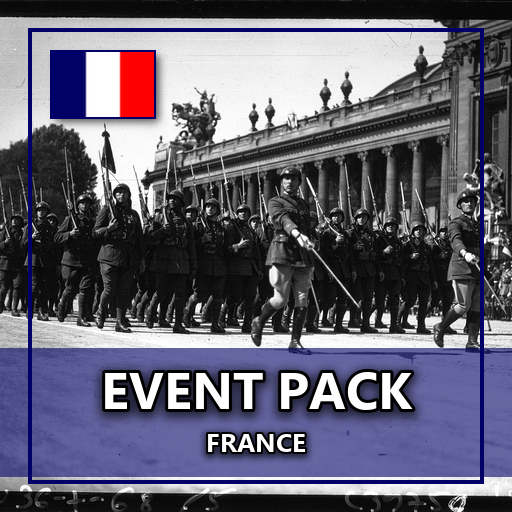
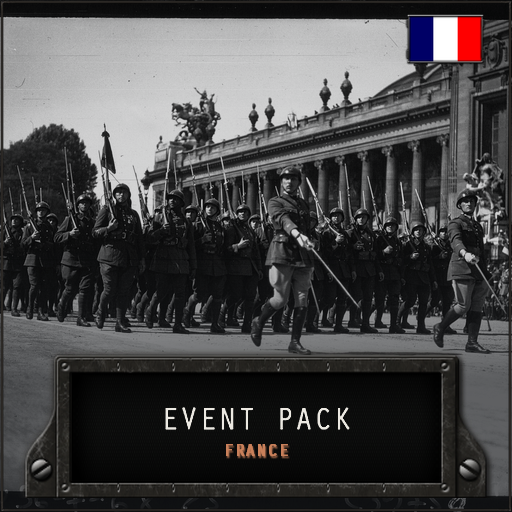
feat(thumbnail): render pack thumbnails with the Manager's New-HoiThumbnail.ps1
The pack thumbnails were made with the external generator and copied in
from scratch/thumbnail, with the text position, flag corner and colours
chosen per pack. They now come from the Manager's one template: EVENT
PACK in the game's loading-screen plate with the country under it, the
flag at the top right, over the pack's own Commons picture.

- assets/thumbnail.json names each pack's background picture and crop;
  the plan template's thumbnail step sets it, previews and -Applies.
- -NewPack renders the new pack's thumbnail through the Manager and falls
  back to assets/thumbnail_master.png when the Manager is not found.
- The hook no longer exempts a copy into packs/<key>/thumbnail.png and
  refuses a hand edit of it; the allow list names New-HoiThumbnail.ps1.
- The create, implement and audit skills, the implementer and reviewer
  agents, AGENTS.md and README describe the new step.
- Both packs' thumbnails are re-rendered.

Tests: tests\Run-Tests.ps1 -Changed: 171 Passed, 0 Failed, 0 Skipped
(changed: all suites); Invoke-ModAction.ps1 -Action Validate succeeded.

diff --git a/.agents/skills/event-pack-create/SKILL.md b/.agents/skills/event-pack-create/SKILL.md
@@ -15,13 +15,13 @@ Plans a pack or new events, down to every text, effect and picture, in one plan 
 - **Every fact is verified on its page.** A fact enters the fact sheet only from a Phase 3a `KEEP` or `FIX`, with its source and its quote; a detail no checked page states does not enter a text, however plausible.
 - **The licence is the tool's decision.** A picture enters the plan only after `build.ps1 -FetchPicture ... -DryRun` printed `ACCEPTED` for it.
 - **The editor passes every text.** No plan goes READY with an event the editor has not returned KEEP for in its latest round.
-- **The shipped pack is not touched here.** This skill writes the plan, the dossier under `research/<key>/` and files under `scratch/`; `source/` and `packs/` change when the plan is implemented. The one exception is `-NewPack` for a brand-new pack (Phase 0); its thumbnail is made at implementation (Phase 3).
+- **The shipped pack is not touched here.** This skill writes the plan, the dossier under `research/<key>/` and files under `scratch/`; `source/` and `packs/` change when the plan is implemented. The one exception is `-NewPack` for a brand-new pack (Phase 0); the pack's own thumbnail is made at implementation (Phase 3, step 5).
 - **Dossiers are kept.** Every dossier stays in `research/<key>/`, never deleted or trimmed, also when the plan is dropped: the candidates not chosen and the facts not used are where the next expansion of the pack starts. The only additions are the `Used:` and `Checked:` lines of Phase 5.4. It is committed with the plan when the plan ships, or on the owner's word.
 - Ask the owner only the questions in Phase 0 and Phase 2.
 
 ## Phase 0: scope
 1. Ask the owner, in one message: the country (and its tag if not obvious), the period (default: 1936 to the start of its war, plus its first months), the number of events (default 10 to 15), kinds to stress or avoid, and anything the pack must not touch. Record the answers in the plan's "Decisions".
-2. A new pack: confirm the tag with the `hoi4-vanilla-lookup` skill (`Get-HoiCountry`), then `powershell -File .\build.ps1 -NewPack -Pack <key> -Tag <TAG> -DisplayName "<Country>"`; it gives the pack the placeholder thumbnail, which Phase 3 replaces. Write `source/<key>/workshop-intro.bbcode`: two or three plain sentences about the pack, and the info lines `-NewPack` drafted.
+2. A new pack: confirm the tag with the `hoi4-vanilla-lookup` skill (`Get-HoiCountry`), then `powershell -File .\build.ps1 -NewPack -Pack <key> -Tag <TAG> -DisplayName "<Country>"`; it renders a first thumbnail over the family's default loading screen with the Modding Manager's `New-HoiThumbnail.ps1` (or copies `assets/thumbnail_master.png` and prints the command when that cannot run), which Phase 3 replaces. Write `source/<key>/workshop-intro.bbcode`: two or three plain sentences about the pack, and the info lines `-NewPack` drafted.
 3. Copy `docs/plans/TEMPLATE-pack.md` to `docs/plans/<YYYY-MM-DD>-<key>-<what>.md` and fill the header, "Context" and "Decisions". An existing pack: note its last event id; new ids continue from it.
 
 ## Phase 1: research
@@ -36,7 +36,7 @@ Read the new dossiers. Drop candidates whose key facts are `UNVERIFIED`, that ca
 2. For each event, run `powershell -File .\build.ps1 -FetchPicture -Pack <key> -File "<File:...>" -Key <picture key> -DryRun` on its first proposal; on `REJECTED`, try the next. An event with no accepted file gets a vanilla picture (`vanilla:GFX_report_event_<name>`, found with `Find-HoiUsage` of the `hoi4-vanilla-lookup` skill) and a note in the plan.
 3. Choose crop and tone per picture: `warm` for black-and-white photographs (it matches the game's own pictures), `none` for colour art; a crop other than 50 only where the researcher's crop note asks for it.
 4. Fill the plan's "Pictures" table with what the dry runs printed.
-5. Thumbnail, for a new pack or one whose `packs/<key>/thumbnail.png` still has the hash of `assets/thumbnail_master.png` (`Get-FileHash`): the background is one of the pack's own event pictures, not a vanilla loading screen. Pick a picture that printed `ACCEPTED`, PD or CC0 preferred; CC BY also does, as the generated Workshop description credits every picture an event uses. Look at the picture and name where its subject sits. A landscape picture fills the square's whole height, so the crop (`center`, `left`, `right`) only moves it sideways; a portrait picture fills its width, and `top` or `bottom` keeps the subject in. The text block (title, country, and the flag with the banner behind them) covers the top or bottom 45% of the square with the flag under the text (`--overlay-pos below-text`), or 25% with the flag in a corner (`--overlay-pos top-left` and the other corners). Put it over the picture's emptiest band, such as sky, ground or water, and never over the subject: `--text-pos top` or `bottom`. When no band is that tall, put the flag in a corner over another empty area. Prefer a picture with such a band. Write its key on the plan's "Thumbnail" line with the subject's place, the text position and the flag position, and fill step 4 of "Implementation steps": picture key, country in capitals, crop, text and flag positions, and the pack's two colours. The flag: the tag, the game root `Get-HoiGameInfo` prints, and as flag variant the ruling party ideology `Get-HoiCountryHistory -Tag <TAG> -Section politics` prints. Check the flag while planning with the same generator command and `--out-dirs "scratch\thumbnail\<key>"` but no `--bg-image`: when it stops with `No flag for '<TAG>'`, pick the variant from the list it prints. The colours come from that flag as the game draws it, never a preset theme, so every pack wears its own nation's colours: list the file's commonest colours with `python -I -c "from PIL import Image; from collections import Counter; print(['#%02X%02X%02X' % c for c, n in Counter(Image.open(r'<the overlay_source the check printed>').convert('RGB').getdata()).most_common(6)])"`. The main colour is the one the flag is known by, never white (Finland: its blue `#003580`); it frames the picture and fills the banner behind the text. The text colour is `#FFFFFF`, or `#000000` when the main colour is light (a yellow, a pale blue). A dry run downloads nothing, so the thumbnail is made at implementation, after step 3, from the copy `-FetchPicture` saves in `sources-cache/<key>/` (the Commons rendering, up to 1600 px wide), never from the 210x176 DDS. A pack that already has its own thumbnail: write `Thumbnail: unchanged` and make step 4 read `Thumbnail unchanged: nothing to run.`, so the step numbers stay.
+5. Thumbnail, for a new pack or one without a `packs.<key>.background` in `assets/thumbnail.json`: the background is one of the pack's own event pictures, not a vanilla loading screen. The Modding Manager's `New-HoiThumbnail.ps1` draws the rest in the one fixed Event Pack layout (the game's border, "EVENT PACK" and the country on the title plate at the bottom, the flag of the pack's tag at the top right), so the picture and its crop are the only choices. Pick a picture that printed `ACCEPTED`, PD or CC0 preferred; CC BY also does, as the generated Workshop description credits every picture an event uses. Look at the picture and name where its subject sits: the plate covers about the bottom third of the square and the flag its top right corner, so prefer a picture whose subject can sit in the upper middle. A landscape picture fills the square's whole height, so the crop (`"center"`, `"left"`, `"right"`) only moves it sideways; a portrait picture fills its width, and `"top"` or `"bottom"` keeps the subject in; `[x, y]` centring fractions place it in between. Write `Thumbnail: <picture key>, crop <crop>` and fill step 4 of "Implementation steps" with the picture key, the crop as JSON, and the Modding Manager's absolute path as `<Manager root>` (the folder two levels above this repository). Its commands take `-Path .`, so the Phase 5 rehearsal renders into and writes only its copy. A dry run downloads nothing, so the thumbnail is made at implementation, after step 3, from the copy `-FetchPicture` saves in `sources-cache/<key>/` (the Commons rendering, up to 1600 px wide), never from the 210x176 DDS. A pack that already has its own thumbnail: write `Thumbnail: unchanged` and make step 4 read `Thumbnail unchanged: nothing to run.`, so the step numbers stay.
 
 ## Phase 3a: verify
 Runs after the owner's choice, at the same time as Phase 3 if you like; a researcher's quote is a lead, not yet a check.
@@ -53,7 +53,7 @@ Runs after the owner's choice, at the same time as Phase 3 if you like; a resear
 3. Dispatch `ep-editor` with the plan path (its `markdown fact-sheets` block is the fact sheet) and the event keys. Apply every REWRITE as given; drop or replace a REJECT (back to Phase 2 for a replacement). Record each round in "Editor record". Send the changed events back to the editor until every event is KEEP; at most three rounds, then ask the owner.
 
 ## Phase 5: gate
-1. Rehearse the plan without touching the repository: `robocopy . scratch\rehearsal /MIR /XD .git scratch artifacts sources-cache`, then in `scratch\rehearsal` run steps 1 to 8 of the plan exactly as written (they write only the copy). Every step must give what it says to expect; fix the plan, not the copy, and rehearse again. Step 8 draws each event as the game's window (`scratch\rehearsal\artifacts\workshop-images\<key>\`): open the images with the Read tool, and shorten a title or option the render prints a `[WARN]` for: it overflows its box into the text below [GUW-027].
+1. Rehearse the plan without touching the repository: `robocopy . scratch\rehearsal /MIR /XD .git scratch artifacts sources-cache`, then in `scratch\rehearsal` run steps 1 to 8 of the plan exactly as written (they write only the copy). Every step must give what it says to expect; fix the plan, not the copy, and rehearse again. Step 4 edits the copy's `assets\thumbnail.json`; open the preview it names with the Read tool, and pick another picture or crop when the title plate or the flag covers the subject. Step 8 draws each event as the game's window (`scratch\rehearsal\artifacts\workshop-images\<key>\`): open the images with the Read tool, and shorten a title or option the render prints a `[WARN]` for: it overflows its box into the text below [GUW-027].
 2. Fill "Events", list in "Kept on judgment" any `[WARN]` the rehearsal's `-Check -Pack <key>` or `-RenderEvents -Pack <key>` printed that stays, and set `Status: READY`.
 3. Delete the copy: `Remove-Item -Recurse -Force scratch\rehearsal`.
 4. Mark the dossiers, in every section of the candidate's key (dossier and addendum alike):
@@ -62,6 +62,6 @@ Runs after the owner's choice, at the same time as Phase 3 if you like; a resear
    - Change nothing else in a dossier. A candidate never checked stays unmarked, as the researcher wrote it.
 
 ## Phase 6: hand off
-Report to the owner: the plan path, the dossier paths with how many candidates they keep for later, the events with their titles, the picture licences (how many PD, CC0, CC BY), the thumbnail's picture, the fact verification totals, the editor's totals, and that `event-pack-implement` carries it out. Then stop.
+Report to the owner: the plan path, the dossier paths with how many candidates they keep for later, the events with their titles, the picture licences (how many PD, CC0, CC BY), the thumbnail's picture and crop, the fact verification totals, the editor's totals, and that `event-pack-implement` carries it out. Then stop.
 
 Antigravity: pass each agent brief's path to `invoke_subagent`; where no subagent can be dispatched, read the brief and do its work yourself, keeping the editor's work in a separate pass that reads only the draft, the fact sheet and the style guide.

diff --git a/.claude/skills/event-pack-create/SKILL.md b/.claude/skills/event-pack-create/SKILL.md
@@ -15,13 +15,13 @@ Plans a pack or new events, down to every text, effect and picture, in one plan 
 - **Every fact is verified on its page.** A fact enters the fact sheet only from a Phase 3a `KEEP` or `FIX`, with its source and its quote; a detail no checked page states does not enter a text, however plausible.
 - **The licence is the tool's decision.** A picture enters the plan only after `build.ps1 -FetchPicture ... -DryRun` printed `ACCEPTED` for it.
 - **The editor passes every text.** No plan goes READY with an event the editor has not returned KEEP for in its latest round.
-- **The shipped pack is not touched here.** This skill writes the plan, the dossier under `research/<key>/` and files under `scratch/`; `source/` and `packs/` change when the plan is implemented. The one exception is `-NewPack` for a brand-new pack (Phase 0); its thumbnail is made at implementation (Phase 3).
+- **The shipped pack is not touched here.** This skill writes the plan, the dossier under `research/<key>/` and files under `scratch/`; `source/` and `packs/` change when the plan is implemented. The one exception is `-NewPack` for a brand-new pack (Phase 0); the pack's own thumbnail is made at implementation (Phase 3, step 5).
 - **Dossiers are kept.** Every dossier stays in `research/<key>/`, never deleted or trimmed, also when the plan is dropped: the candidates not chosen and the facts not used are where the next expansion of the pack starts. The only additions are the `Used:` and `Checked:` lines of Phase 5.4. It is committed with the plan when the plan ships, or on the owner's word.
 - Ask the owner only the questions in Phase 0 and Phase 2.
 
 ## Phase 0: scope
 1. Ask the owner, in one message: the country (and its tag if not obvious), the period (default: 1936 to the start of its war, plus its first months), the number of events (default 10 to 15), kinds to stress or avoid, and anything the pack must not touch. Record the answers in the plan's "Decisions".
-2. A new pack: confirm the tag with the `hoi4-vanilla-lookup` skill (`Get-HoiCountry`), then `powershell -File .\build.ps1 -NewPack -Pack <key> -Tag <TAG> -DisplayName "<Country>"`; it gives the pack the placeholder thumbnail, which Phase 3 replaces. Write `source/<key>/workshop-intro.bbcode`: two or three plain sentences about the pack, and the info lines `-NewPack` drafted.
+2. A new pack: confirm the tag with the `hoi4-vanilla-lookup` skill (`Get-HoiCountry`), then `powershell -File .\build.ps1 -NewPack -Pack <key> -Tag <TAG> -DisplayName "<Country>"`; it renders a first thumbnail over the family's default loading screen with the Modding Manager's `New-HoiThumbnail.ps1` (or copies `assets/thumbnail_master.png` and prints the command when that cannot run), which Phase 3 replaces. Write `source/<key>/workshop-intro.bbcode`: two or three plain sentences about the pack, and the info lines `-NewPack` drafted.
 3. Copy `docs/plans/TEMPLATE-pack.md` to `docs/plans/<YYYY-MM-DD>-<key>-<what>.md` and fill the header, "Context" and "Decisions". An existing pack: note its last event id; new ids continue from it.
 
 ## Phase 1: research
@@ -36,7 +36,7 @@ Read the new dossiers. Drop candidates whose key facts are `UNVERIFIED`, that ca
 2. For each event, run `powershell -File .\build.ps1 -FetchPicture -Pack <key> -File "<File:...>" -Key <picture key> -DryRun` on its first proposal; on `REJECTED`, try the next. An event with no accepted file gets a vanilla picture (`vanilla:GFX_report_event_<name>`, found with `Find-HoiUsage` of the `hoi4-vanilla-lookup` skill) and a note in the plan.
 3. Choose crop and tone per picture: `warm` for black-and-white photographs (it matches the game's own pictures), `none` for colour art; a crop other than 50 only where the researcher's crop note asks for it.
 4. Fill the plan's "Pictures" table with what the dry runs printed.
-5. Thumbnail, for a new pack or one whose `packs/<key>/thumbnail.png` still has the hash of `assets/thumbnail_master.png` (`Get-FileHash`): the background is one of the pack's own event pictures, not a vanilla loading screen. Pick a picture that printed `ACCEPTED`, PD or CC0 preferred; CC BY also does, as the generated Workshop description credits every picture an event uses. Look at the picture and name where its subject sits. A landscape picture fills the square's whole height, so the crop (`center`, `left`, `right`) only moves it sideways; a portrait picture fills its width, and `top` or `bottom` keeps the subject in. The text block (title, country, and the flag with the banner behind them) covers the top or bottom 45% of the square with the flag under the text (`--overlay-pos below-text`), or 25% with the flag in a corner (`--overlay-pos top-left` and the other corners). Put it over the picture's emptiest band, such as sky, ground or water, and never over the subject: `--text-pos top` or `bottom`. When no band is that tall, put the flag in a corner over another empty area. Prefer a picture with such a band. Write its key on the plan's "Thumbnail" line with the subject's place, the text position and the flag position, and fill step 4 of "Implementation steps": picture key, country in capitals, crop, text and flag positions, and the pack's two colours. The flag: the tag, the game root `Get-HoiGameInfo` prints, and as flag variant the ruling party ideology `Get-HoiCountryHistory -Tag <TAG> -Section politics` prints. Check the flag while planning with the same generator command and `--out-dirs "scratch\thumbnail\<key>"` but no `--bg-image`: when it stops with `No flag for '<TAG>'`, pick the variant from the list it prints. The colours come from that flag as the game draws it, never a preset theme, so every pack wears its own nation's colours: list the file's commonest colours with `python -I -c "from PIL import Image; from collections import Counter; print(['#%02X%02X%02X' % c for c, n in Counter(Image.open(r'<the overlay_source the check printed>').convert('RGB').getdata()).most_common(6)])"`. The main colour is the one the flag is known by, never white (Finland: its blue `#003580`); it frames the picture and fills the banner behind the text. The text colour is `#FFFFFF`, or `#000000` when the main colour is light (a yellow, a pale blue). A dry run downloads nothing, so the thumbnail is made at implementation, after step 3, from the copy `-FetchPicture` saves in `sources-cache/<key>/` (the Commons rendering, up to 1600 px wide), never from the 210x176 DDS. A pack that already has its own thumbnail: write `Thumbnail: unchanged` and make step 4 read `Thumbnail unchanged: nothing to run.`, so the step numbers stay.
+5. Thumbnail, for a new pack or one without a `packs.<key>.background` in `assets/thumbnail.json`: the background is one of the pack's own event pictures, not a vanilla loading screen. The Modding Manager's `New-HoiThumbnail.ps1` draws the rest in the one fixed Event Pack layout (the game's border, "EVENT PACK" and the country on the title plate at the bottom, the flag of the pack's tag at the top right), so the picture and its crop are the only choices. Pick a picture that printed `ACCEPTED`, PD or CC0 preferred; CC BY also does, as the generated Workshop description credits every picture an event uses. Look at the picture and name where its subject sits: the plate covers about the bottom third of the square and the flag its top right corner, so prefer a picture whose subject can sit in the upper middle. A landscape picture fills the square's whole height, so the crop (`"center"`, `"left"`, `"right"`) only moves it sideways; a portrait picture fills its width, and `"top"` or `"bottom"` keeps the subject in; `[x, y]` centring fractions place it in between. Write `Thumbnail: <picture key>, crop <crop>` and fill step 4 of "Implementation steps" with the picture key, the crop as JSON, and the Modding Manager's absolute path as `<Manager root>` (the folder two levels above this repository). Its commands take `-Path .`, so the Phase 5 rehearsal renders into and writes only its copy. A dry run downloads nothing, so the thumbnail is made at implementation, after step 3, from the copy `-FetchPicture` saves in `sources-cache/<key>/` (the Commons rendering, up to 1600 px wide), never from the 210x176 DDS. A pack that already has its own thumbnail: write `Thumbnail: unchanged` and make step 4 read `Thumbnail unchanged: nothing to run.`, so the step numbers stay.
 
 ## Phase 3a: verify
 Runs after the owner's choice, at the same time as Phase 3 if you like; a researcher's quote is a lead, not yet a check.
@@ -53,7 +53,7 @@ Runs after the owner's choice, at the same time as Phase 3 if you like; a resear
 3. Dispatch `ep-editor` with the plan path (its `markdown fact-sheets` block is the fact sheet) and the event keys. Apply every REWRITE as given; drop or replace a REJECT (back to Phase 2 for a replacement). Record each round in "Editor record". Send the changed events back to the editor until every event is KEEP; at most three rounds, then ask the owner.
 
 ## Phase 5: gate
-1. Rehearse the plan without touching the repository: `robocopy . scratch\rehearsal /MIR /XD .git scratch artifacts sources-cache`, then in `scratch\rehearsal` run steps 1 to 8 of the plan exactly as written (they write only the copy). Every step must give what it says to expect; fix the plan, not the copy, and rehearse again. Step 8 draws each event as the game's window (`scratch\rehearsal\artifacts\workshop-images\<key>\`): open the images with the Read tool, and shorten a title or option the render prints a `[WARN]` for: it overflows its box into the text below [GUW-027].
+1. Rehearse the plan without touching the repository: `robocopy . scratch\rehearsal /MIR /XD .git scratch artifacts sources-cache`, then in `scratch\rehearsal` run steps 1 to 8 of the plan exactly as written (they write only the copy). Every step must give what it says to expect; fix the plan, not the copy, and rehearse again. Step 4 edits the copy's `assets\thumbnail.json`; open the preview it names with the Read tool, and pick another picture or crop when the title plate or the flag covers the subject. Step 8 draws each event as the game's window (`scratch\rehearsal\artifacts\workshop-images\<key>\`): open the images with the Read tool, and shorten a title or option the render prints a `[WARN]` for: it overflows its box into the text below [GUW-027].
 2. Fill "Events", list in "Kept on judgment" any `[WARN]` the rehearsal's `-Check -Pack <key>` or `-RenderEvents -Pack <key>` printed that stays, and set `Status: READY`.
 3. Delete the copy: `Remove-Item -Recurse -Force scratch\rehearsal`.
 4. Mark the dossiers, in every section of the candidate's key (dossier and addendum alike):
@@ -62,6 +62,6 @@ Runs after the owner's choice, at the same time as Phase 3 if you like; a resear
    - Change nothing else in a dossier. A candidate never checked stays unmarked, as the researcher wrote it.
 
 ## Phase 6: hand off
-Report to the owner: the plan path, the dossier paths with how many candidates they keep for later, the events with their titles, the picture licences (how many PD, CC0, CC BY), the thumbnail's picture, the fact verification totals, the editor's totals, and that `event-pack-implement` carries it out. Then stop.
+Report to the owner: the plan path, the dossier paths with how many candidates they keep for later, the events with their titles, the picture licences (how many PD, CC0, CC BY), the thumbnail's picture and crop, the fact verification totals, the editor's totals, and that `event-pack-implement` carries it out. Then stop.
 
 Antigravity: pass each agent brief's path to `invoke_subagent`; where no subagent can be dispatched, read the brief and do its work yourself, keeping the editor's work in a separate pass that reads only the draft, the fact sheet and the style guide.

diff --git a/.claude/agents/ep-implementer.md b/.claude/agents/ep-implementer.md
@@ -15,7 +15,7 @@ You carry out one plan file of the Hearts of Iron IV mod "Event Packs". The call
 
 ## Ground rules
 - **The plan is the only source.** Texts, effects, dates, pictures and fact sheets are the planner's. When the plan looks wrong or incomplete, that is a stop condition: report it and leave it as it is.
-- **The shipped pack changes only through `build.ps1`.** Everything under `packs/<pack>/` except `descriptor.mod` and `thumbnail.png` is generated by `build.ps1 -Generate`; a hook refuses Edit and Write there.
+- **The shipped pack changes only through its tools.** Everything under `packs/<pack>/` except `descriptor.mod` and `thumbnail.png` is generated by `build.ps1 -Generate`, and `thumbnail.png` is written by the Modding Manager's `New-HoiThumbnail.ps1 -Apply`; a hook refuses Edit and Write there.
 - **The source files change only as the plan says**: `source/<pack>/events.json` and `source/<pack>/fact-sheets.md` take the blocks the plan gives, written with the Write or Edit tool; `source/<pack>/pictures.json` is written only by `build.ps1 -FetchPicture`.
 - **Touch only the files the plan names.** `build.ps1`, `tools/`, `data/`, the tests, the skills, the agents, `AGENTS.md` and `docs/style-guide.md` stay as they are.
 - **Shipping belongs to the caller.** A step that starts with "Ship" or "After the user confirms", or that runs `push-wiki.ps1` or `git commit`, stays unticked.
@@ -39,7 +39,7 @@ What the usual steps mean:
 - **Write the events**: replace `source/<pack>/events.json` with the plan's `json events` block, whole, with the Write tool (UTF-8, no BOM). The block is the whole file, not a patch.
 - **Write the fact sheets**: append each `## <key>` section of the plan's fact-sheet block to `source/<pack>/fact-sheets.md`, or replace the section of the same key.
 - **Fetch a picture**: `build.ps1 -FetchPicture -Pack <pack> -File "<File:...>" -Key <key> -Crop <crop> -Tone <tone>` must print `ACCEPTED`. `REJECTED` is a stop condition: report the file and the reason; do not try another file.
-- **Make the thumbnail**: run the generator command as written; its JSON must say `"status": "success"` and `"workshop_limit_exceeded": false`. Then run the `Copy-Item` into `packs/<pack>/thumbnail.png` exactly as written, as a statement of its own: a hook refuses any other shell write into `packs/`.
+- **Make the thumbnail**: set `packs.<pack>.background` in `assets/thumbnail.json` as the step gives it, with the Edit tool. Run the preview command as written: it must print the pack's line with `new` or `changed` and no `Warning:` line; open the preview it names with the Read tool. Then run the `-Apply` command exactly as written, as a statement of its own: it must print the pack's line with `new` or `changed`. A hook refuses any other write to `packs/<pack>/thumbnail.png`.
 - **`-ConvertPictures -Pack <pack>`**: must end `failed=0`.
 - **`-Generate -Pack <pack>`**: must end `Generated pack '<pack>'`; an `[ERROR]` line is a stop condition.
 - **`-Check -Pack <pack>`**: must end `Check OK`. A `[WARN]` line the plan's "Kept on judgment" does not list is a stop condition.

diff --git a/docs/plans/TEMPLATE-pack.md b/docs/plans/TEMPLATE-pack.md
@@ -29,7 +29,7 @@ Every row passed `build.ps1 -FetchPicture ... -DryRun` while planning; the licen
 | Key | Commons file | Licence (from the dry run) | Crop | Tone | Event |
 |---|---|---|---|---|---|
 
-Thumbnail: <picture key, the background of step 4>; subject <where it sits>; text <top|bottom>, flag <below-text|top-left|top-right|bottom-left|bottom-right> | unchanged
+Thumbnail: <picture key, the background of step 4>, crop <crop> | unchanged
 
 ## Fact verification
 
@@ -49,9 +49,10 @@ Thumbnail: <picture key, the background of step 4>; subject <where it sits>; tex
 - [ ] 2. Write the fact sheets: add each section of the `markdown fact-sheets` block below to `source/<pack>/fact-sheets.md`, replacing a section of the same key.
 - [ ] 3. Fetch the pictures, one command per row of the picture table, each expected to print `ACCEPTED`:
   - `powershell -File .\build.ps1 -FetchPicture -Pack <pack> -File "<File:...>" -Key <key> -Crop <crop> -Tone <tone>`
-- [ ] 4. Make the thumbnail from the picture fetched in step 3, two commands (when "Thumbnail" says unchanged, this step reads `Thumbnail unchanged: nothing to run.`):
-  - `python "W:\Antigravity\Mod Thumbnail Generator\generate_branding.py" --bg-image (Get-Item sources-cache\<pack>\<picture key>.*).FullName --bg-crop <crop> --title "EVENT PACK" --subtitle "<COUNTRY>" --flag-tag <TAG> --flag-variant <flag variant> --game-dir "<game root>" --theme "<main colour>" --banner --banner-color "<main colour>" --text-color "<text colour>" --accent-color "<text colour>" --text-pos <top|bottom> --overlay-pos <flag position> --hoi4 --json --out-dirs "scratch\thumbnail\<pack>"`: expect `"status": "success"`, `"workshop_limit_exceeded": false` and an `"overlay_source"` naming the flag file.
-  - `Copy-Item scratch\thumbnail\<pack>\thumbnail.png packs\<pack>\thumbnail.png`
+- [ ] 4. Make the thumbnail from the picture fetched in step 3 (when "Thumbnail" says unchanged, this step reads `Thumbnail unchanged: nothing to run.`):
+  - In `assets/thumbnail.json`, set `packs.<pack>.background` to `{ "path": "sources-cache/<pack>/<picture key>.*", "crop": <crop> }`, adding the pack's entry under `packs` when it has none.
+  - `powershell -File "<Manager root>\Scripts\Showcase\New-HoiThumbnail.ps1" -Path . -Pack <pack>`: expect the pack's line with `new` or `changed` and no `Warning:` line; open the preview it names with the Read tool.
+  - `powershell -File "<Manager root>\Scripts\Showcase\New-HoiThumbnail.ps1" -Path . -Pack <pack> -Apply`: expect the pack's line with `new` or `changed`.
 - [ ] 5. `powershell -File .\build.ps1 -ConvertPictures -Pack <pack>`: expect `failed=0`.
 - [ ] 6. `powershell -File .\build.ps1 -Generate -Pack <pack>`: expect `Generated pack '<pack>'`.
 - [ ] 7. `powershell -File .\build.ps1 -Check -Pack <pack>`: expect `Check OK`, with no warning outside "Kept on judgment".

diff --git a/.claude/agents/ep-reviewer.md b/.claude/agents/ep-reviewer.md
@@ -17,7 +17,7 @@ You review a change to "Event Packs", a Hearts of Iron IV mod of small flavor ev
 1. **Tests and checks**: run `powershell -File .\build.ps1 -Check`, `-ValidateOnly` and `powershell -File .\tests\Run-Tests.ps1 -Changed` yourself. Trust the pasted full `-Test` summary line instead of rerunning the whole suite; when none was pasted, run `-Test` once.
 2. **Generated files**: nothing under `packs/<pack>/` other than `descriptor.mod` and `thumbnail.png` differs from what `-Generate` writes (`-Check` reports it), and `git diff --stat` shows no hand edit to them.
 3. **Facts**: for each new or changed event, every claim in its text is in its `source/<pack>/fact-sheets.md` section, and every fact line there has a source and a quote. Open two or three sources at random and confirm the page holds the quote and states the fact. One sampled fact contradicted by its page is Critical. A sampled quote not on its page, or a fact the page does not state, is Important, and the finding recommends a full recheck of the pack's facts through `ep-audit-researcher`: where one fact was never read, others usually were not either.
-4. **Pictures**: every picture row in `source/<pack>/pictures.json` came from `-FetchPicture` (licence fields filled, `fetched` date set); open two Commons pages at random and confirm the licence. Look at the converted DDS of each new picture only if the plan's crop notes suggest a problem. When the change made a `packs/<pack>/thumbnail.png`, open it: the banner sits where the plan's "Thumbnail" line puts it, and neither it nor the flag covers the picture's subject.
+4. **Pictures**: every picture row in `source/<pack>/pictures.json` came from `-FetchPicture` (licence fields filled, `fetched` date set); open two Commons pages at random and confirm the licence. Look at the converted DDS of each new picture only if the plan's crop notes suggest a problem. When the change made a `packs/<pack>/thumbnail.png`, open it: its background is the picture and crop of the plan's "Thumbnail" line, as `packs.<pack>.background` in `assets/thumbnail.json` gives them, neither the title plate nor the flag covers the picture's subject, and the preview `powershell -File "<Modding Manager>\Scripts\Showcase\New-HoiThumbnail.ps1" -Path . -Pack <pack>` prints `unchanged` (the committed file is what the spec renders).
 5. **Text**: judge two events against `docs/style-guide.md`; the editor already passed them, so report only clear problems.
 6. **Effects**: small, as `data/effect-caps.json` caps them, and each option's text matches its effect.
 7. **Plan**: every step ticked except the ship step, `Status: DONE`, the "Outcome" filled.

diff --git a/AGENTS.md b/AGENTS.md
@@ -9,9 +9,9 @@ Shared rules for every mod in this tree (file encodings, build commands, engine 
 - The historical researcher's dossiers stay in `research/<key>/`, every candidate with its sourced facts, used or not: a pack's next events start from them. Never delete or trim one. The only additions are a candidate's `Used:` line and its `Checked:` lines: once a candidate is checked, its facts stay as the researcher wrote them, and the checked ones are where its newest `Checked:` line points.
 
 ## Mod invariants
-- `packs/<key>/` changes only through `build.ps1 -Generate` and `-ConvertPictures`, its `thumbnail.png` only through a plan's thumbnail step (a copy from `scratch/thumbnail/`); `source/<key>/pictures.json` only through `-FetchPicture` and `-RemovePicture`. A hook refuses hand edits.
+- `packs/<key>/` changes only through `build.ps1 -Generate` and `-ConvertPictures`, its `thumbnail.png` only through the Manager's `New-HoiThumbnail.ps1 -Apply` from `assets/thumbnail.json` (a plan's thumbnail step); `source/<key>/pictures.json` only through `-FetchPicture` and `-RemovePicture`. A hook refuses hand edits.
 - A namespace (`ep_<tag>`), event id or guard flag never changes once a pack is released: saves hold the flags.
-- Pictures come from Wikimedia Commons, licensed public domain (with the `PD-` reason Commons gives), CC0 or CC BY, and only through `-FetchPicture`, which decides the licence. Credits are generated into the pack's wiki page; the Workshop description links to it, so the wiki is pushed before a pack is published.
+- Pictures come from Wikimedia Commons, licensed public domain (with the `PD-` reason Commons gives), CC0 or CC BY, and only through `-FetchPicture`, which decides the licence. Credits are generated into the pack's wiki page; the Workshop description links to it, so the wiki is pushed before a pack is published. Only `packs/<key>/thumbnail.png` also carries the game's own interface art and fonts (border, title plate, flag), which the Manager's renderer reads from the install around one of the pack's pictures.
 - Effects stay within `data/effect-caps.json`: flavor first, small numbers [SCR-088] [SCR-090].
 - Every claim in an event text is in its fact-sheet section with a source and the quote of its page, checked by `ep-audit-researcher` before the text is written; the `ep-editor` agent passes every text before a plan is READY. Voice: `docs/style-guide.md`.
 - Events are `is_triggered_only` and fire from a weekly anchor with a guard flag, a date window and a weekly chance [SCR-080] [SCR-089] [SCR-091].

diff --git a/.agents/skills/event-pack-implement/SKILL.md b/.agents/skills/event-pack-implement/SKILL.md
@@ -28,9 +28,9 @@ Dispatch `ep-implementer` with the prompt `Carry out docs/plans/<file>.md` and n
 The report is a claim. Check:
 1. `powershell -File .\build.ps1 -Check -Pack <key>` ends `Check OK`, and every `[WARN]` is in the plan's "Kept on judgment".
 2. `powershell -File .\build.ps1 -ValidateOnly` ends `Validation succeeded.`; `powershell -File .\build.ps1 -Test` has no failed test.
-3. `git status --short` lists only `source/<key>/`, `packs/<key>/`, `research/<key>/` (the plan's dossier, and the `Used:` and `Checked:` lines the plan added), `wiki/Event-Pack-<Country>.md` and the plan.
+3. `git status --short` lists only `source/<key>/`, `packs/<key>/`, `research/<key>/` (the plan's dossier, and the `Used:` and `Checked:` lines the plan added), `wiki/Event-Pack-<Country>.md`, `assets/thumbnail.json` when the plan made a thumbnail, and the plan.
 4. The plan says `Status: DONE`, every box but the ship step is ticked.
-5. Look at each new picture: `powershell -File .\build.ps1 -PreviewPictures -Pack <key>` writes PNG copies of the pack's DDS pictures to `scratch/preview/<key>/`; open each with the Read tool, and `packs/<key>/thumbnail.png` when the plan made one. A crop that cuts the subject goes back to the planner, and so does a thumbnail whose banner or flag covers the picture's subject while an empty band stays bare.
+5. Look at each new picture: `powershell -File .\build.ps1 -PreviewPictures -Pack <key>` writes PNG copies of the pack's DDS pictures to `scratch/preview/<key>/`; open each with the Read tool, and `packs/<key>/thumbnail.png` when the plan made one. A crop that cuts the subject goes back to the planner, and so does a thumbnail whose title plate or flag covers the picture's subject.
 6. Look at the event renders the plan's render step wrote to `artifacts/workshop-images/<key>/`, one per event, drawn as the game's event window: open each new or changed event's image with the Read tool, and `00-overview`. A title or option running into the text below, a text that reads wrong in the window, or a picture that sits badly goes back to the planner. These images are what the owner uploads to the Workshop page (`event-pack-release`).
 
 Then dispatch `ep-reviewer` with the task as the owner asked it, the plan path and the summary lines of the three commands. Fix nothing yourself: Critical or Important findings go back to the planner (section 4).

diff --git a/.claude/skills/event-pack-implement/SKILL.md b/.claude/skills/event-pack-implement/SKILL.md
@@ -28,9 +28,9 @@ Dispatch `ep-implementer` with the prompt `Carry out docs/plans/<file>.md` and n
 The report is a claim. Check:
 1. `powershell -File .\build.ps1 -Check -Pack <key>` ends `Check OK`, and every `[WARN]` is in the plan's "Kept on judgment".
 2. `powershell -File .\build.ps1 -ValidateOnly` ends `Validation succeeded.`; `powershell -File .\build.ps1 -Test` has no failed test.
-3. `git status --short` lists only `source/<key>/`, `packs/<key>/`, `research/<key>/` (the plan's dossier, and the `Used:` and `Checked:` lines the plan added), `wiki/Event-Pack-<Country>.md` and the plan.
+3. `git status --short` lists only `source/<key>/`, `packs/<key>/`, `research/<key>/` (the plan's dossier, and the `Used:` and `Checked:` lines the plan added), `wiki/Event-Pack-<Country>.md`, `assets/thumbnail.json` when the plan made a thumbnail, and the plan.
 4. The plan says `Status: DONE`, every box but the ship step is ticked.
-5. Look at each new picture: `powershell -File .\build.ps1 -PreviewPictures -Pack <key>` writes PNG copies of the pack's DDS pictures to `scratch/preview/<key>/`; open each with the Read tool, and `packs/<key>/thumbnail.png` when the plan made one. A crop that cuts the subject goes back to the planner, and so does a thumbnail whose banner or flag covers the picture's subject while an empty band stays bare.
+5. Look at each new picture: `powershell -File .\build.ps1 -PreviewPictures -Pack <key>` writes PNG copies of the pack's DDS pictures to `scratch/preview/<key>/`; open each with the Read tool, and `packs/<key>/thumbnail.png` when the plan made one. A crop that cuts the subject goes back to the planner, and so does a thumbnail whose title plate or flag covers the picture's subject.
 6. Look at the event renders the plan's render step wrote to `artifacts/workshop-images/<key>/`, one per event, drawn as the game's event window: open each new or changed event's image with the Read tool, and `00-overview`. A title or option running into the text below, a text that reads wrong in the window, or a picture that sits badly goes back to the planner. These images are what the owner uploads to the Workshop page (`event-pack-release`).
 
 Then dispatch `ep-reviewer` with the task as the owner asked it, the plan path and the summary lines of the three commands. Fix nothing yourself: Critical or Important findings go back to the planner (section 4).

diff --git a/.agents/skills/event-pack-audit/SKILL.md b/.agents/skills/event-pack-audit/SKILL.md
@@ -38,7 +38,7 @@ Show the owner the report and stop until they say which fixes to make. Record th
 
 ## Phase 3: plan the fixes
 1. Build the plan's `json events` block from the current `source/<key>/events.json` with only the approved fixes; corrected facts go into the `markdown fact-sheets` block with the sources and quotes the researcher returned. An audit that rechecked every fact of the events below the pack's `factQuotesFromId` gives every one of them a quote and removes the field.
-2. A replaced picture follows Phase 3 of `event-pack-create`; its new row goes into "Pictures" and step 3. When it was the thumbnail's background (the "Thumbnail" line of the archived plan that made the thumbnail), step 4 makes the thumbnail again from a picture of the pack; otherwise "Thumbnail" says unchanged.
+2. A replaced picture follows Phase 3 of `event-pack-create`; its new row goes into "Pictures" and step 3. When it was the thumbnail's background (`packs.<key>.background` in `assets/thumbnail.json`), step 4 points that entry at another picture of the pack, with its crop, and renders the thumbnail again; otherwise "Thumbnail" says unchanged.
 3. Send changed texts through `ep-editor` until KEEP, as in `event-pack-create` Phase 4.
 4. Gate as in `event-pack-create` Phase 5 and set `Status: READY`.
 5. Mark the dossiers. Find every `research/<key>/` section (dossier and addendum alike) that has the key of an event Phase 1 rechecked and a `Used:` line. Below its `Used:` line and any earlier `Checked:` line, add: `Checked: <plan file name>, <K> kept, <F> fixed, <D> dropped. The facts below are the researcher's notes, not the checked ones: see source/<key>/fact-sheets.md.` The counts are that event's verdicts from the plan's "Fact verification", where a declined fix or drop stays listed as declined. Change nothing else in a dossier.

diff --git a/.claude/skills/event-pack-audit/SKILL.md b/.claude/skills/event-pack-audit/SKILL.md
@@ -38,7 +38,7 @@ Show the owner the report and stop until they say which fixes to make. Record th
 
 ## Phase 3: plan the fixes
 1. Build the plan's `json events` block from the current `source/<key>/events.json` with only the approved fixes; corrected facts go into the `markdown fact-sheets` block with the sources and quotes the researcher returned. An audit that rechecked every fact of the events below the pack's `factQuotesFromId` gives every one of them a quote and removes the field.
-2. A replaced picture follows Phase 3 of `event-pack-create`; its new row goes into "Pictures" and step 3. When it was the thumbnail's background (the "Thumbnail" line of the archived plan that made the thumbnail), step 4 makes the thumbnail again from a picture of the pack; otherwise "Thumbnail" says unchanged.
+2. A replaced picture follows Phase 3 of `event-pack-create`; its new row goes into "Pictures" and step 3. When it was the thumbnail's background (`packs.<key>.background` in `assets/thumbnail.json`), step 4 points that entry at another picture of the pack, with its crop, and renders the thumbnail again; otherwise "Thumbnail" says unchanged.
 3. Send changed texts through `ep-editor` until KEEP, as in `event-pack-create` Phase 4.
 4. Gate as in `event-pack-create` Phase 5 and set `Status: READY`.
 5. Mark the dossiers. Find every `research/<key>/` section (dossier and addendum alike) that has the key of an event Phase 1 rechecked and a `Used:` line. Below its `Used:` line and any earlier `Checked:` line, add: `Checked: <plan file name>, <K> kept, <F> fixed, <D> dropped. The facts below are the researcher's notes, not the checked ones: see source/<key>/fact-sheets.md.` The counts are that event's verdicts from the plan's "Fact verification", where a declined fix or drop stays listed as declined. Change nothing else in a dossier.

diff --git a/README.md b/README.md
@@ -40,7 +40,7 @@ Work goes through the agent skills in `.claude/skills` (mirrored in `.agents/ski
 .\build.ps1 -Package                                               # one zip per pack in artifacts/
 ```
 
-Publishing goes through the Modding Manager: `Scripts\Publish-Mod.ps1 "Event Packs" -Pack <pack>`.
+Publishing goes through the Modding Manager: `Scripts\Publish-Mod.ps1 "Event Packs" -Pack <pack>`. So do the thumbnails: `Scripts\Showcase\New-HoiThumbnail.ps1 "Event Packs" -Pack <pack>` previews a pack's `thumbnail.png` from `assets/thumbnail.json`, and `-Apply` writes it.
 
 ## Picture credits
 
